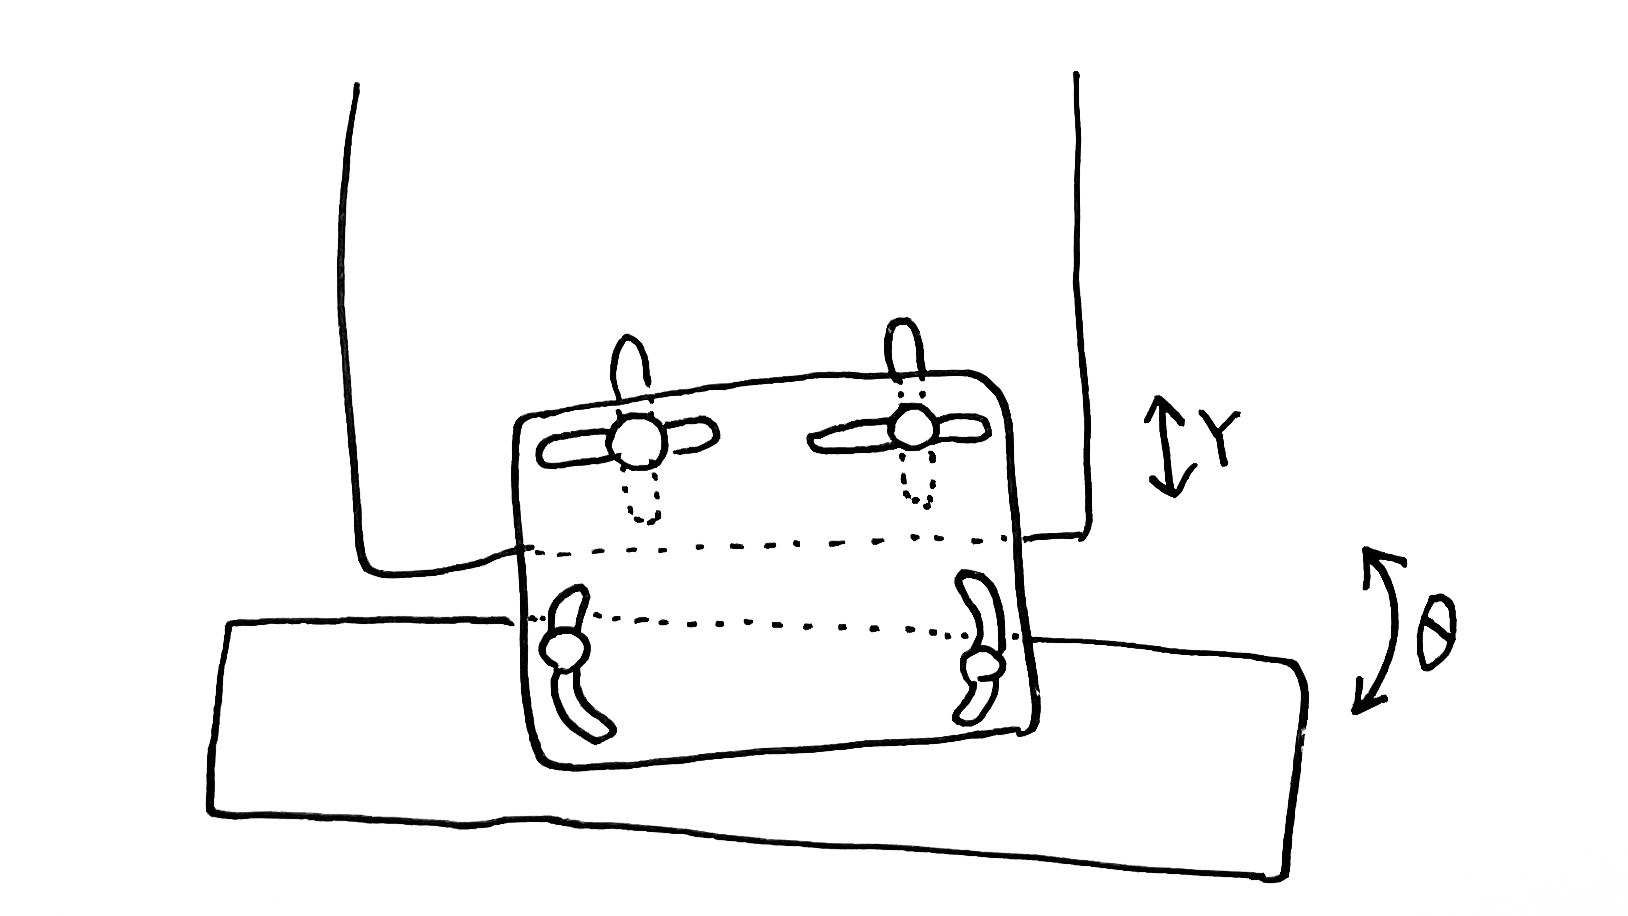
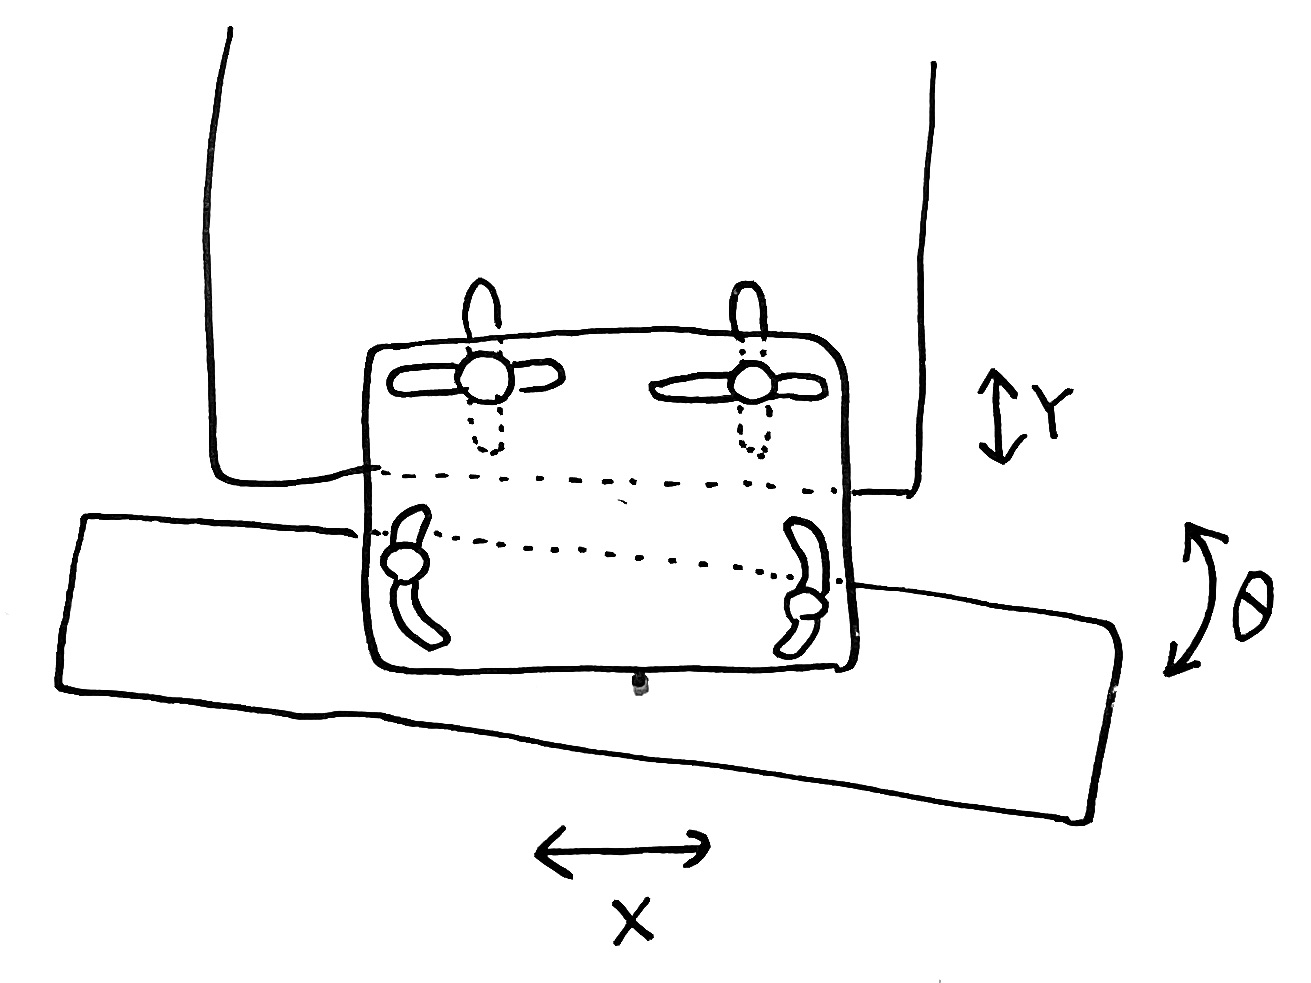
Update White paper

diff --git a/pangaea-whitepaper.md b/pangaea-whitepaper.md
@@ -1,18 +1,20 @@
-# Pangaea
+# White Paper on Pangaea keyboard
 
-## what's pangaea?
+## What's Pangaea?
 
 ### 何なのか
 
-キーレイアウトをいくつかの "島" に切り離し、それぞれの島の位置を自由に移動できるようにしたキーボードです。
+Pangaea (パンゲア) は、キーレイアウトをいくつかの "島" に切り離し、それぞれの島の位置を自由に移動できるようにしたキーボードです。
 
 <img src="doc/WhitePaper_Abst1.jpeg" alt="alt text" style="width:50%">
 
+キー配列のかたまりが移動する様子を大陸移動説になぞらえて、超大陸にちなんでPangaeaと名付けました。
+
 ### 何ができるのか
 
-島を動かすことで、個人の好みや手の形（癖、体型）に合わせてキー配置を調整できます。
+島を動かすことで、個人の好みや手の形（癖、体型）に合わせてキー配置を調整できます。椅子の座り心地を確かめながら座面の高さや背もたれの角度を調整するように、キーボードを使いながら心地よく使える形に調整していくことができます。
 
-## why pangaea?
+## Why Pangaea?
 
 何のために作られたのか
 
@@ -26,29 +28,24 @@
 みんなも欲しいはず！
 …という経緯で開発に至りました。
 
-## how pangaea works?
+## How Pangaea works?
 
 どうなっているのか
 
 - 島と島の相対位置は、接続パーツで連結。自由に可動・固定ができます。
+    - 例えば、レール上にスリットを開けたプレートを組み合わせることで、連続的に位置と角度が調整できます。
+    
+    <img src="doc/WhitePaper_Mech1.jpeg" alt="alt text" style="width:30%">    <img src="doc/WhitePaper_Mech2.jpeg" alt="alt text" style="width:30%">
 
-<img src="doc/WhitePaper_Mech1.jpeg" alt="alt text" style="width:30%"><img src="doc/WhitePaper_Mech2.jpeg" alt="alt text" style="width:30%">
-
-- 島を繋ぐ配線はジャンパワイヤ。結線したままで自由に動かせます。
-
-<img src="doc/WhitePaper_Ele1.jpeg" alt="alt text" style="width:30%">
-
-- 島を繋ぐ配線はキーマトリクス配線そのもの。自由に置き換え・拡張ができます。
-- 左右分離型, 左右間はTRS/TRRSケーブルで接続します。
-- Pangaea標準インターフェイスを実装した基板であれば、なんでも接続可能です。
-    - SU120、te96 を使った追加のキー、ロータリーエンコーダー
-    - トラックボール（検証中）
+- 島同士の電気的な接続は、ワイヤーなどフレキシブルな配線を使うことで結線したまま島を動かせます。
+- 島は規格にしたがって自由に置き換え・拡張ができます。
+- 追加の要素も自由に接続可能です。
+    - 追加のキー、ロータリーエンコーダー
+    - トラックボール（今後検証予定）
 
     <img src="doc/WhitePaper_Add1.jpeg" alt="alt text" style="width:30%">
 
-詳しくは標準仕様をチェックしてください。see: [specification](pangaea-specification-1.0.md)
-
-## where pangaea going?
+## Where Pangaea going?
 
 今後の展望
 
